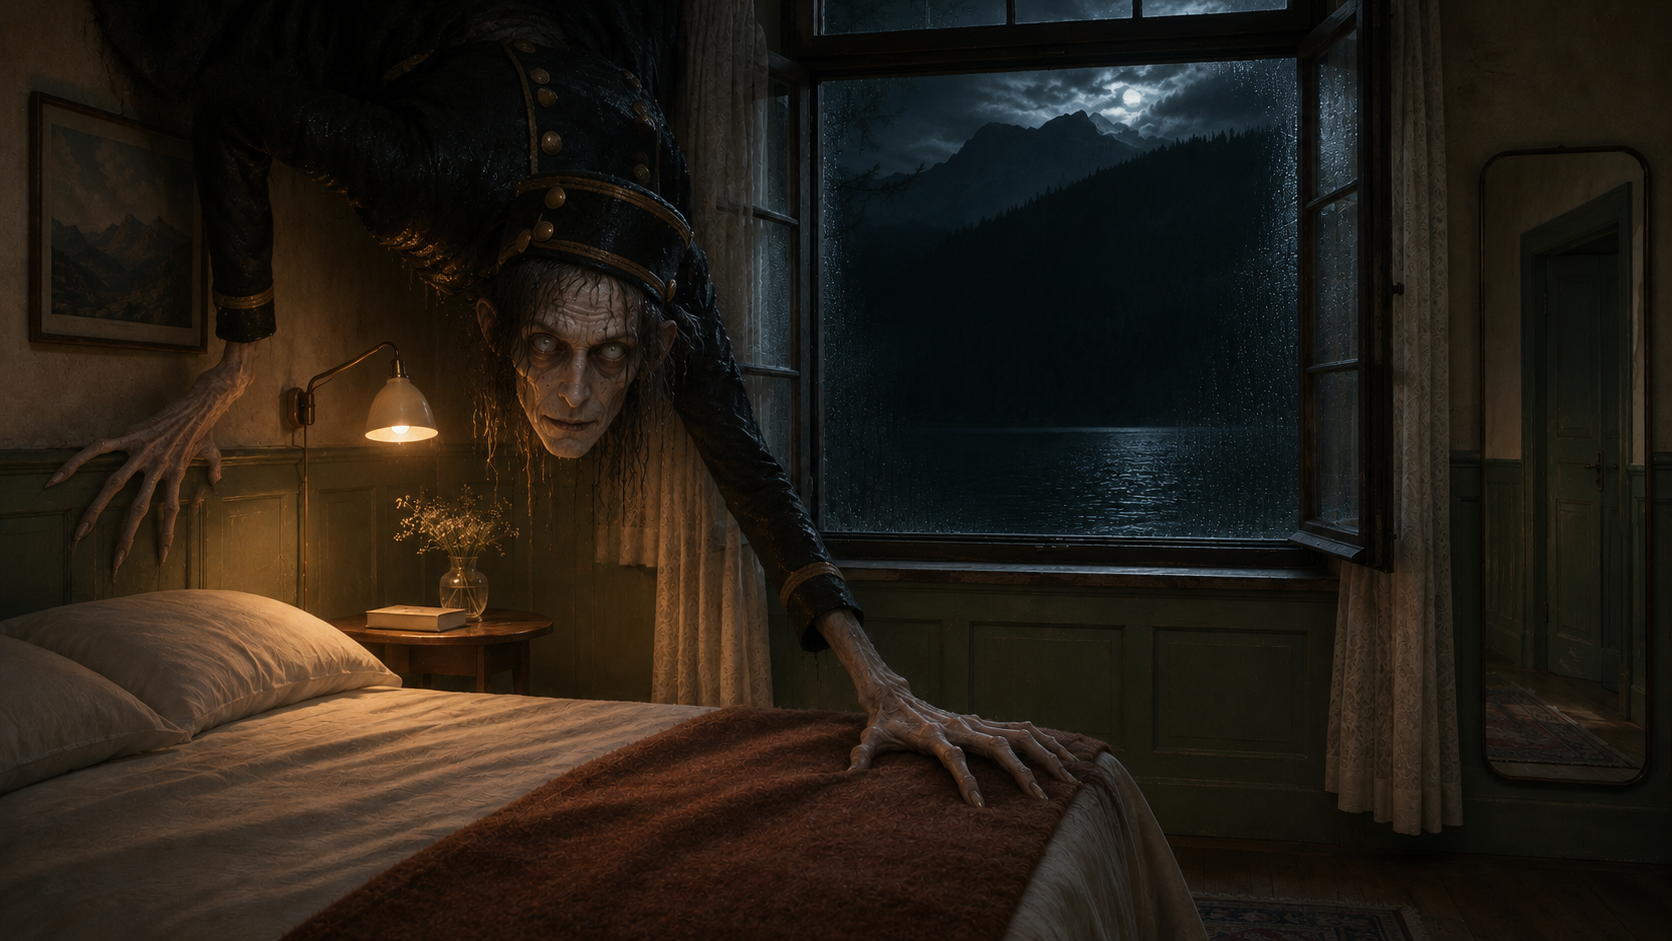
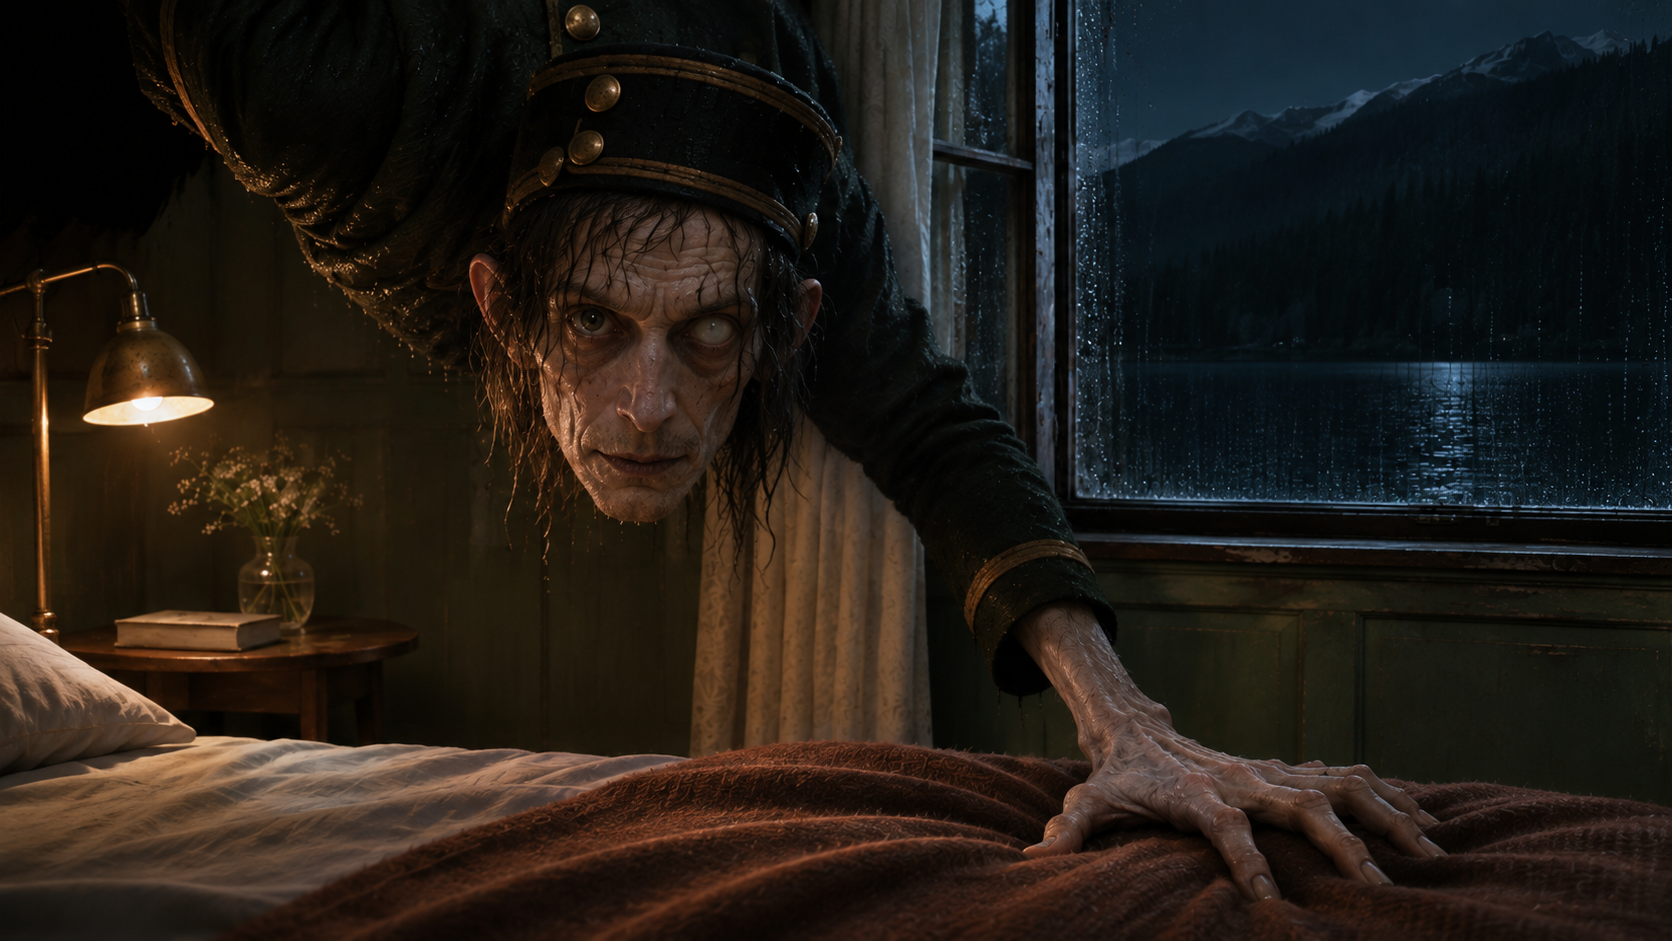
Refine the pine guestroom still with practical light and tactile fabric detail

diff --git a/index.html b/index.html
@@ -1,4 +1,4 @@
-<!doctype html><html lang="zh-CN"><head><meta charset="utf-8"><meta name="viewport" content="width=device-width,initial-scale=1"><meta name="theme-color" content="#f2efdf"><title>静泊旅馆 · 湖谷索道</title><link rel="stylesheet" href="tram.css?v=house-entries"></head><body id="top" data-print="lake" data-run="morning">
+<!doctype html><html lang="zh-CN"><head><meta charset="utf-8"><meta name="viewport" content="width=device-width,initial-scale=1"><meta name="theme-color" content="#f2efdf"><title>静泊旅馆 · 湖谷索道</title><link rel="stylesheet" href="tram.css?v=pine-print-9cf3e87"></head><body id="top" data-print="lake" data-run="morning">
 <header id="mast"><a class="logo" href="#top"><span class="mark" aria-hidden="true">≋</span><span class="wordmark">静泊旅馆<small>STILLWATER HOUSE</small></span></a><nav aria-label="旅馆导航"><a href="#lakeside">湖畔</a><a href="#service">班次</a><a href="#route">沿线风景</a><button class="desk-open" type="button" aria-haspopup="dialog">前台回执<i class="desk-dot" aria-hidden="true"></i></button><button id="sound" aria-pressed="false">声音关</button></nav><span class="depth-rule" aria-hidden="true"></span></header>
 <dialog id="desk" aria-labelledby="desk-title"><div class="desk-inner"><div class="desk-head"><small>STILLWATER HOUSE</small><button type="button" id="desk-close" aria-label="关闭回执">×</button></div><h2 id="desk-title">前台回执</h2><dl><div><dt>上行班次</dt><dd id="receipt-time">09:10</dd></div><div><dt>房卡版画</dt><dd id="receipt-print">湖纹</dd></div><div><dt>领取地点</dt><dd id="receipt-where">湖翼前台</dd></div></dl><div class="counterfoil"><span class="receipt-stamp" aria-hidden="true">已签收</span><p id="receipt-message">选好班次和房卡，可以在这里核对。</p></div><a href="#rooms" id="desk-edit">查看房卡</a></div></dialog>
 <div class="desk-note" aria-hidden="true"><small>静泊前台</small><span></span></div>

diff --git a/tram.css b/tram.css
@@ -50,7 +50,7 @@ body[data-print=ridge] {--key-ink:#873e2b;--key-art:repeating-linear-gradient(14
 .room-take {transform:scale(var(--approach,1));transform-origin:36% 37%}
 .room-take>div {background-position:47% 45%;background-size:cover}
 .lamplight {background-image:url(lake-room.png);filter:brightness(.48) saturate(.49)}
-.nightprint {background-image:url(room-after-dark.png);opacity:var(--occupied,0)}
+.nightprint {background-image:url(room-after-dark.png?v=9cf3e87);opacity:var(--occupied,0)}
 .room-dark {background:#070b0c;opacity:var(--exposure,.3)}
 .room-door {background:linear-gradient(88deg,#0b0d0b 73%,#181a15 96%,#352d20 99.5%,#7f6641);right:auto;width:100%;transform:translateX(var(--ajar,-7%));box-shadow:8px 0 32px #050807b8}
 .night-credit {position:absolute;left:7vw;bottom:9svh;text-shadow:0 1px 6px #060706,0 1px 13px #000;opacity:var(--credit,1)}
